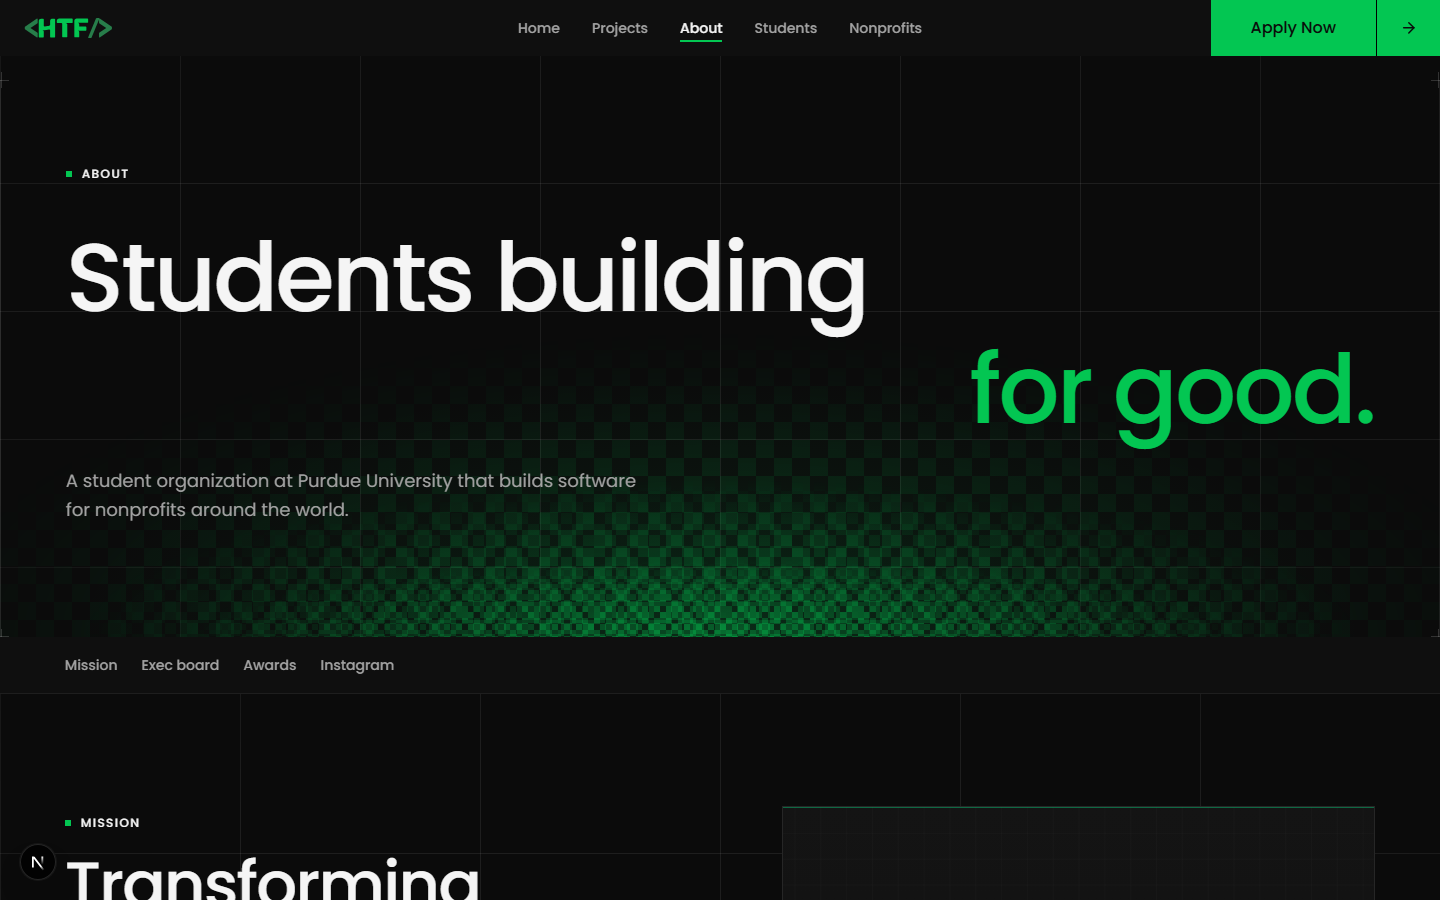
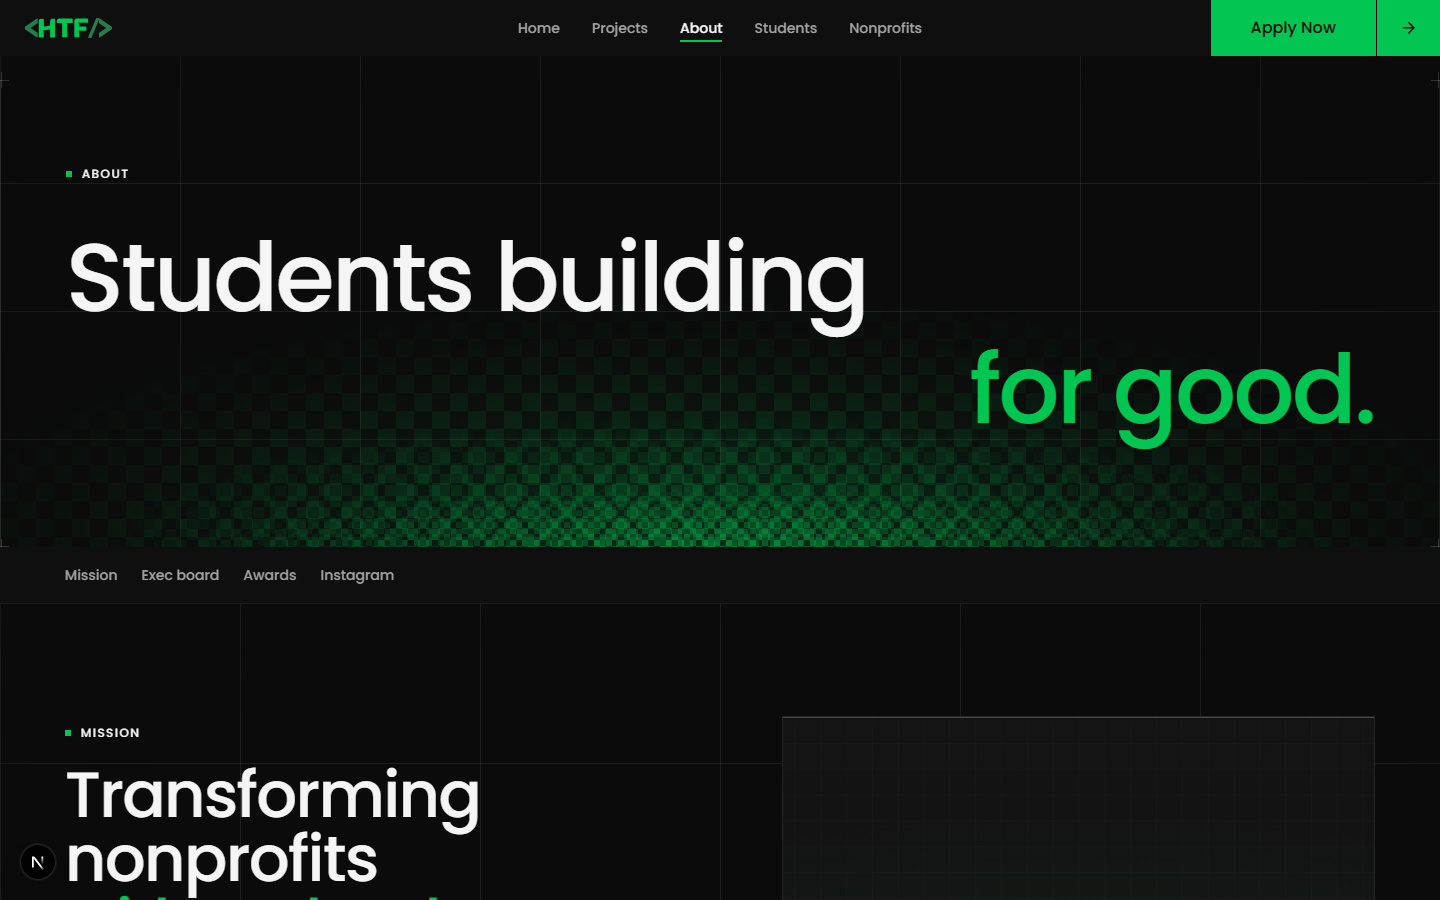
feat(layout): Globe is the inner-page hero, and its lines always overlap
`DEFAULT_PAGE_HERO` is `globe`, so it ships in the bundle and Frame becomes a lazy chunk
(/privacy and the 404 still import FrameHero directly). The About and Projects heroes drop
their blurbs and open on the eyebrow and the headline alone.

`pageHeroes/OverlapLines` (the Globe variant only) measures the rendered headline after mount
and pulls a line left until a quarter of the shorter one sits under the line above — never
past the column's left edge, never below `md`, and as a transform, so nothing re-wraps.
Projects already overlapped and does not move; About and Students do.

Claude-Session: https://claude.ai/code/session_01SyVZMwZZKbRSEsu9M6eP3E

Changed region(s): [[0.0312, 0.4667, 0.875, 0.7467], [0.0312, 0.84, 0.3438, 1.0], [0.0625, 0.8089, 0.0938, 0.84]]

diff --git a/src/components/layout/pageHeroes/OverlapLines.tsx b/src/components/layout/pageHeroes/OverlapLines.tsx
@@ -1,0 +1,58 @@
+"use client";
+
+import { useEffect, useRef, type ReactNode } from "react";
+
+/** How much of the shorter line has to sit under the line above it. */
+const MIN_OVERLAP = 0.25;
+/** Tailwind's `md`, where <Headline stagger> starts pushing the later lines right. */
+const STAGGERED = "(min-width: 48rem)";
+
+/**
+ * Keeps a staggered headline locked together: the second line is right-aligned to the column,
+ * so on a short line ("*for good.*") it can drift clear of the line above and the two read as
+ * separate blocks. This measures the rendered lines and pulls a line left until at least a
+ * quarter of the shorter one sits under the line above — never past the column's left edge,
+ * and never below `md`, where the lines stack. It is a transform, so nothing re-wraps.
+ */
+export function OverlapLines({ children }: { children: ReactNode }) {
+  const ref = useRef<HTMLDivElement>(null);
+
+  useEffect(() => {
+    const heading = ref.current?.querySelector("h1");
+    if (!heading) return;
+    const lines = Array.from(heading.children).filter(
+      (el): el is HTMLElement => el instanceof HTMLElement,
+    );
+    if (lines.length < 2) return;
+    const staggered = window.matchMedia(STAGGERED);
+
+    const apply = () => {
+      for (const line of lines) line.style.transform = "";
+      if (!staggered.matches) return;
+      const column = heading.getBoundingClientRect();
+      for (let i = 1; i < lines.length; i++) {
+        const above = lines[i - 1]!.getBoundingClientRect();
+        const line = lines[i]!;
+        const rect = line.getBoundingClientRect();
+        const wanted = MIN_OVERLAP * Math.min(above.width, rect.width);
+        const missing = wanted - (above.right - rect.left);
+        const shift = Math.min(Math.max(0, missing), rect.left - column.left);
+        if (shift > 0.5) line.style.transform = `translateX(${-Math.round(shift)}px)`;
+      }
+    };
+
+    apply();
+    // The lines move with the viewport (the display size is fluid) and once the face loads.
+    const observer = new ResizeObserver(apply);
+    observer.observe(heading);
+    staggered.addEventListener("change", apply);
+    void document.fonts?.ready.then(apply);
+    return () => {
+      observer.disconnect();
+      staggered.removeEventListener("change", apply);
+      for (const line of lines) line.style.transform = "";
+    };
+  }, []);
+
+  return <div ref={ref}>{children}</div>;
+}

diff --git a/src/components/layout/PageHero.tsx b/src/components/layout/PageHero.tsx
@@ -2,7 +2,7 @@
 
 import dynamic from "next/dynamic";
 import type { ComponentType } from "react";
-import { FrameHero } from "@/components/layout/pageHeroes/FrameHero";
+import { GlobeHero } from "@/components/layout/pageHeroes/GlobeHero";
 import type { PageHeroProps } from "@/components/layout/pageHeroes/types";
 import { DEFAULT_PAGE_HERO, type PageHeroVariantId } from "@/lib/config/options";
 import { useSiteConfig } from "@/lib/config/store";
@@ -20,8 +20,8 @@ const lazy = (load: () => Promise<ComponentType<PageHeroProps>>) =>
  * separate chunks fetched only when chosen in the Shift + M menu.
  */
 const VARIANTS: Record<PageHeroVariantId, ComponentType<PageHeroProps>> = {
-  frame: FrameHero,
-  globe: lazy(() => import("@/components/layout/pageHeroes/GlobeHero").then((m) => m.GlobeHero)),
+  globe: GlobeHero,
+  frame: lazy(() => import("@/components/layout/pageHeroes/FrameHero").then((m) => m.FrameHero)),
   radar: lazy(() => import("@/components/layout/pageHeroes/RadarHero").then((m) => m.RadarHero)),
   corridor: lazy(() =>
     import("@/components/layout/pageHeroes/CorridorHero").then((m) => m.CorridorHero),
@@ -36,7 +36,8 @@ const VARIANTS: Record<PageHeroVariantId, ComponentType<PageHeroProps>> = {
  * whichever variant the site configuration names (src/lib/config); the server and the first
  * client paint always show the default, and a saved choice takes over right after hydration.
  * Remounts on change so the new variant plays its entrance. The 404 and the privacy page sit
- * outside the switch: they use `pageHeroes/FrameHero` directly, with its `back` and `ghost`.
+ * outside the switch: they use `pageHeroes/FrameHero` directly, with its `back` and `ghost`
+ * (which is why Frame is a chunk here even though it is a shipped hero elsewhere).
  */
 export function PageHero(props: PageHeroProps) {
   const { pageHero } = useSiteConfig();

diff --git a/src/components/layout/pageHeroes/PageHeroShell.tsx b/src/components/layout/pageHeroes/PageHeroShell.tsx
@@ -1,4 +1,5 @@
 import type { ComponentPropsWithRef, ReactNode } from "react";
+import { OverlapLines } from "@/components/layout/pageHeroes/OverlapLines";
 import { Reveal, RevealGroup } from "@/components/motion/Reveal";
 import type { PageHeroProps } from "@/components/layout/pageHeroes/types";
 import { Eyebrow } from "@/components/ui/Eyebrow";
@@ -33,6 +34,8 @@ export const pageHeroFrameClass =
 type PageHeroContentProps = PageHeroProps & {
   /** Rendered above the eyebrow (the "back to the index" link on detail pages). */
   before?: ReactNode;
+  /** Hold the staggered lines together (see OverlapLines); the Globe variant asks for it. */
+  overlap?: boolean;
   className?: string;
 };
 
@@ -48,8 +51,12 @@ export function PageHeroContent({
   children,
   stagger = true,
   before,
+  overlap = false,
   className,
 }: PageHeroContentProps) {
+  const headline = (
+    <Headline as="h1" id="page-title" size="display-fluid" stagger={stagger} lines={lines} />
+  );
   return (
     <RevealGroup mode="mount" className={cn(pageHeroFrameClass, className)}>
       {before ? <Reveal className="mb-6">{before}</Reveal> : null}
@@ -57,7 +64,7 @@ export function PageHeroContent({
         <Eyebrow>{eyebrow}</Eyebrow>
       </Reveal>
       <Reveal className="mt-8 md:mt-12">
-        <Headline as="h1" id="page-title" size="display-fluid" stagger={stagger} lines={lines} />
+        {overlap ? <OverlapLines>{headline}</OverlapLines> : headline}
       </Reveal>
       {blurb ? (
         <Reveal className="mt-8 max-w-xl">

diff --git a/src/lib/config/options.ts b/src/lib/config/options.ts
@@ -86,14 +86,13 @@ export const PAGE_HERO_VARIANTS = [
   {
     id: "frame",
     name: "Frame",
-    blurb:
-      "The technical grid, the green glow along the bottom edge and the framed column. The hero as it ships.",
+    blurb: "The technical grid, the green glow along the bottom edge and the framed column.",
   },
   {
     id: "globe",
     name: "Globe",
     blurb:
-      "The wireframe globe on the right, two thirds of the hero tall and turning slowly behind the headline.",
+      "The wireframe globe on the right, two thirds of the hero tall and turning slowly behind the headline. The hero as it ships.",
   },
   {
     id: "radar",
@@ -128,7 +127,7 @@ export const PAGE_HERO_VARIANTS = [
 
 export type PageHeroVariantId = (typeof PAGE_HERO_VARIANTS)[number]["id"];
 
-export const DEFAULT_PAGE_HERO: PageHeroVariantId = "frame";
+export const DEFAULT_PAGE_HERO: PageHeroVariantId = "globe";
 
 export type SiteConfig = {
   hero: HeroVariantId;

diff --git a/src/app/projects/page.tsx b/src/app/projects/page.tsx
@@ -28,11 +28,7 @@ export default function ProjectsPage() {
 
   return (
     <>
-      <PageHero
-        eyebrow="Projects"
-        lines={["Software we built", "*with nonprofits.*"]}
-        blurb="Every project is a real tool for a real organization, built by a student team over the school year."
-      />
+      <PageHero eyebrow="Projects" lines={["Software we built", "*with nonprofits.*"]} />
 
       <Section id="all-projects" aria-label="All projects" className="border-t border-line">
         {hasDrafts ? (

diff --git a/src/app/about/page.tsx b/src/app/about/page.tsx
@@ -34,11 +34,7 @@ export default function AboutPage() {
 
   return (
     <>
-      <PageHero
-        eyebrow="About"
-        lines={["Students building", "*for good.*"]}
-        blurb="A student organization at Purdue University that builds software for nonprofits around the world."
-      />
+      <PageHero eyebrow="About" lines={["Students building", "*for good.*"]} />
       <SectionNav items={SECTIONS} label="About" />
 
       <Mission mission={about.mission} />

diff --git a/src/components/layout/pageHeroes/GlobeHero.tsx b/src/components/layout/pageHeroes/GlobeHero.tsx
@@ -24,7 +24,7 @@ export function GlobeHero(props: PageHeroProps) {
           </div>
         </div>
       </div>
-      <PageHeroContent {...props} className="z-10" />
+      <PageHeroContent {...props} overlap className="z-10" />
     </PageHeroSection>
   );
 }

diff --git a/CLAUDE.md b/CLAUDE.md
@@ -58,10 +58,11 @@ src/components/
                     StatTile (+ CountUp), TestimonialCard, Chip, Field, Media, DottedMap,
                     CopyEmail (every email control: copies the address, never a mailto link)
   layout/           SiteHeader, NavDrawer, NavLinks, SiteFooter, PageHero (a client switch over
-                    pageHeroes/*: seven inner-page heroes (Frame, Globe, Radar, Corridor, Trace,
-                    Dither, Dino) chosen in the Shift + M menu — all the shipped hero's frame with
-                    one graphic added; FrameHero is the default and in the bundle, the rest lazy
-                    chunks; PageHeroShell holds the shared section, the framed column
+                    pageHeroes/*: seven inner-page heroes (Globe, Frame, Radar, Corridor, Trace,
+                    Dither, Dino) chosen in the Shift + M menu — all the same frame with one
+                    graphic added; GlobeHero is the default and in the bundle, the rest lazy
+                    chunks (OverlapLines, the client measure that keeps a staggered headline's
+                    lines overlapping, is the Globe hero's); PageHeroShell holds the shared section, the framed column
                     (PageHeroContent: eyebrow, the one h1, blurb, actions) and the bottom glow;
                     /privacy and the 404 use FrameHero directly, with its `back` and `ghost`),
                     SectionNav (the

diff --git a/docs/PROGRESS.md b/docs/PROGRESS.md
@@ -165,8 +165,19 @@ else is drawn with tokens.
 - A graphic sized in `%` of a hero grows on the short heroes (Contact) and shrinks on the tall
   ones (About); every variant was checked on About (blurb), Students (no blurb) and Contact.
 
+**Ashton's picks, same session.** Globe is `DEFAULT_PAGE_HERO` (so it ships in the bundle and
+Frame becomes a lazy chunk; /privacy and the 404 still import FrameHero directly). The globe
+hangs off the content container's right edge at two thirds of the hero's height — against the
+viewport it read small and detached — and bleeds off the screen edge on phones instead. The
+About and Projects heroes lost their blurbs, so those pages open on the eyebrow and the
+headline alone. And the staggered headline now always overlaps: `pageHeroes/OverlapLines` (the
+Globe variant only) measures the rendered lines after mount and pulls a line left until a
+quarter of the shorter one sits under the line above, never past the column's left edge and
+never below `md`. It is a transform, so nothing re-wraps; Projects ("with nonprofits." already
+under "we built") is untouched, About and Students move.
+
 **Screenshots:** `docs/screenshots/session-15r/` — every variant on About, Students and
-Contact at 1440, and on About at 390.
+Contact at 1440, and on About and Students at 390.
 
 ## Session 15n — 2026-09-10 (what happens when an applicant goes back)
 
